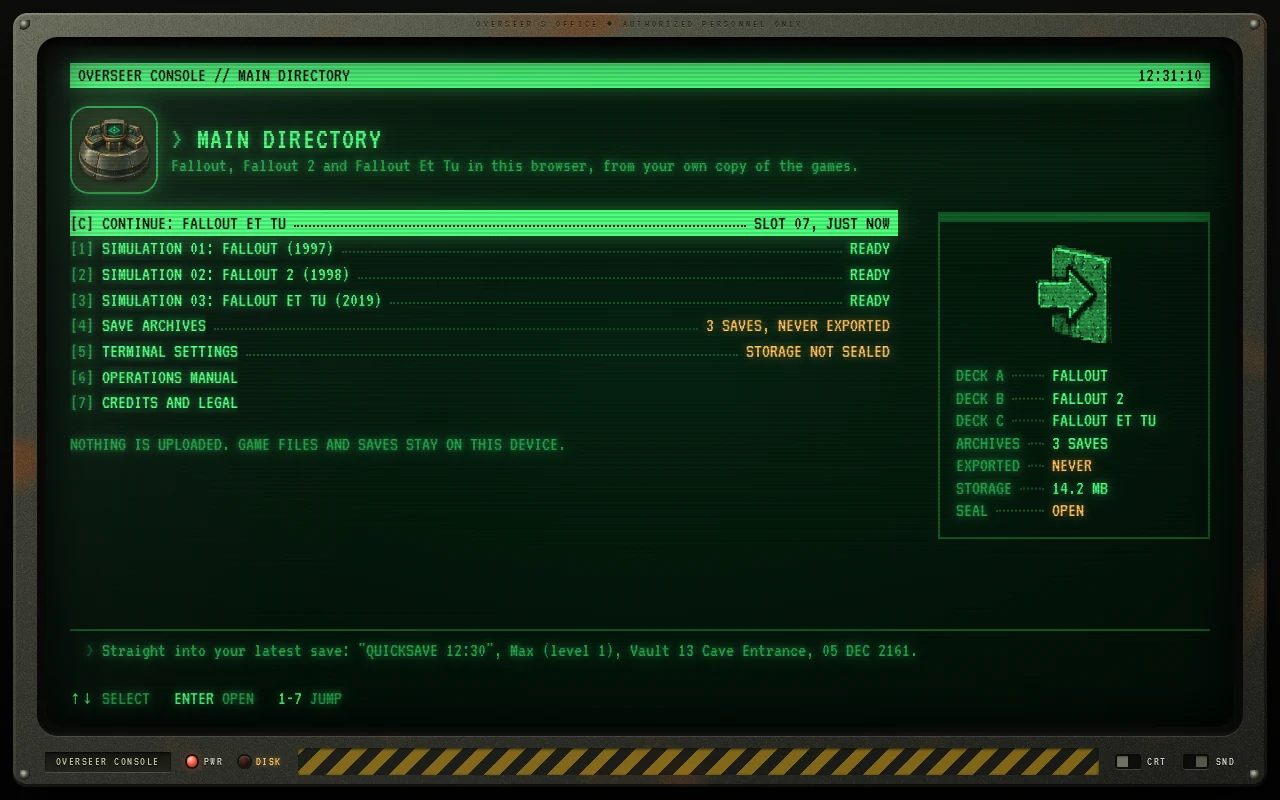
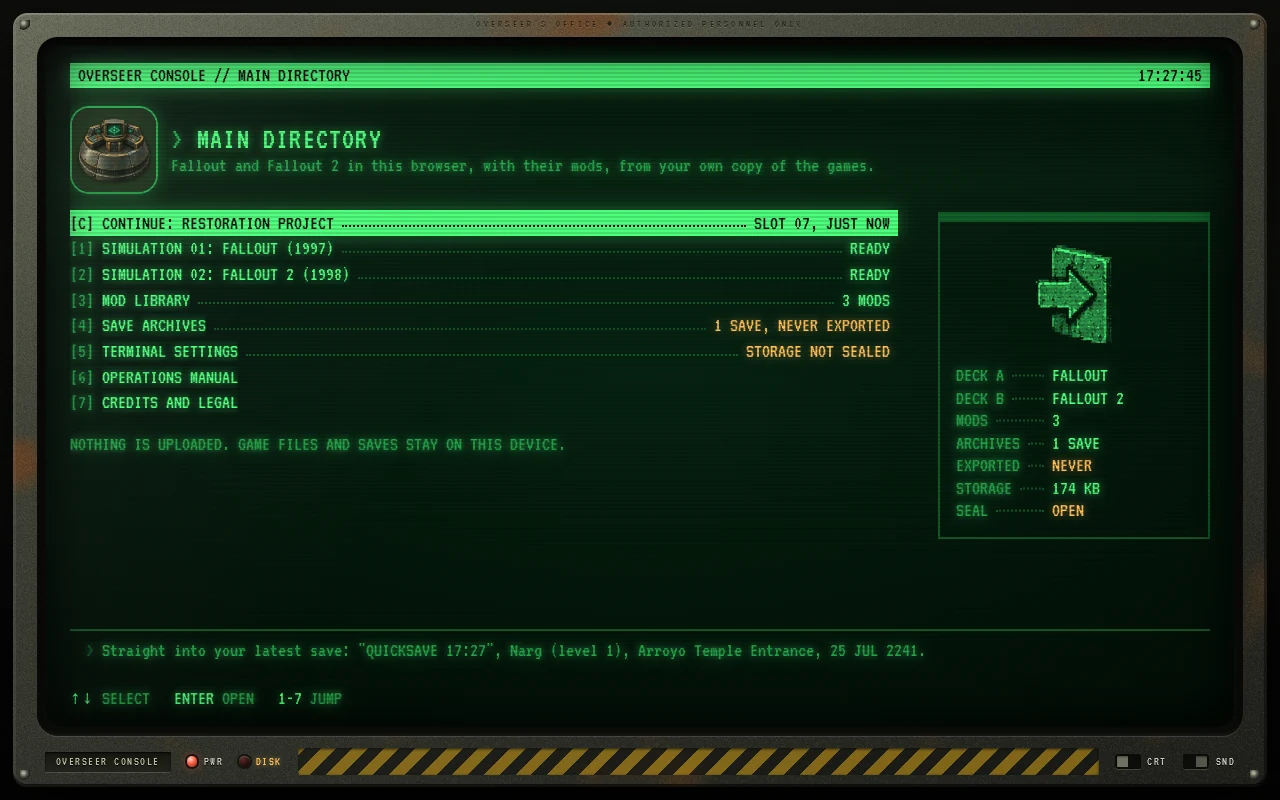
Document the Mod library
- docs/mods.md replaces the Et Tu guide: loading, playing, the known mods
- README, features, Dropbox, how-it-works and developing docs updated
- New pictures of the main directory and the Mod library

diff --git a/docs/mods.md b/docs/mods.md
@@ -1,0 +1,101 @@
+# Mods
+
+A mod is played on the game it was made for: its own files over that game's, on that game's engine, with saves of
+its own. The game itself stays as it was sold, in its deck. Mods are kept in the **Mod library**, entry 3 of the
+main directory.
+
+<p align="center"><img src="images/mods.webp" width="800" alt="The console's Mod library: Fallout Et Tu, the Restoration Project and Fallout: Sonora, each for deck B, and the mods the console knows"></p>
+
+## Loading one
+
+Load the game the mod is played on into its deck first. Then, in the Mod library, choose **Load a mod** and hand the
+console one of these, from a folder, a zip, by dropping it on the screen, or from your Dropbox:
+
+- **the mod as it is downloaded**: a zip, or the folder it unpacks to;
+- **a game folder the mod was installed in**, on a desktop, by its own installer.
+
+Of what it is handed, the console keeps only what differs from the game in the deck. A game folder a mod was
+installed in is compared with the deck's copy file by file: the game's archives and music, untouched by the mod, are
+not stored a second time, and the mod is started with the deck's copy of them. Installers, programs and libraries
+are left out; for the mods it knows, the console does what their installer would have done.
+
+With your Dropbox linked, a mod can be loaded from the **Mods** folder inside your games folder (`Apps/<app>/Mods`
+unless you changed the games folder): put each mod there as the zip it is downloaded as, or as its folder, and choose
+it from the list *From Dropbox* shows. A zip is a few large downloads where a folder is thousands of small ones.
+
+## Playing one
+
+A mod's page starts it, and holds its save archives and its picture. **In deck B** (or A) puts it in its game's
+deck: the deck plays it from then on, and its Begin and Continue start the mod. The deck's own **Mod** entry
+switches between the mods loaded for it and none, the game as it was sold. Saves are each mod's own: neither the
+game nor another mod sees them.
+
+**Components** switch the parts of a mod its load order (`mods/mods_order.txt`) names on and off: what its installer
+would offer as options, such as the Restoration Project's world map or companions' armour, or Fallout Et Tu's
+language packs. The change is kept with the mod's saves, over the file it came with, and *As the mod comes* puts
+it back.
+
+## The mods the console knows
+
+Any mod loads. These are known by name, started at the picture their makers meant, and told apart from each other
+by a file of their own or the name of their folder.
+
+| Mod | For | Hand the console | On this engine |
+| --- | --- | --- | --- |
+| [Fallout Et Tu](https://github.com/rotators/Fo1in2) | Fallout 2, built from Fallout as well | `Fallout1in2.zip`, its folder, or the Fallout 2 folder it sits in | Tested here |
+| [Restoration Project](https://github.com/BGforgeNet/Fallout2_Restoration_Project) | Fallout 2 | `rpu_v*.zip` from its releases page, not the installer; or a Fallout 2 folder it was installed in | Supported |
+| [Fallout 2 Megamod](https://www.nma-fallout.com/resources/mib88-megamod.11/) | Fallout 2 | A Fallout 2 folder it was installed in | Experimental |
+| [Fallout: Sonora](https://cambragol.github.io/Fallout-Sonora/) | Fallout 2 | `Fallout_Sonora_*.zip` from its English releases page, or its folder | Supported |
+| [Fallout: Nevada](https://github.com/BGforgeNet/fallout-nevada-english-translation) | Fallout 2 | The folder it was installed in, its English translation copied over it | Supported |
+| [Olympus 2207](https://github.com/HogLord69/olympus-2207-english) | Fallout 2 | `Olympus-2207-English.zip`, or its folder | Experimental |
+| [Fallout Fixt](https://www.moddb.com/mods/fallout-fixt) | Fallout | A Fallout folder it was installed in | Experimental |
+
+*Supported* means the makers of the Community Edition engine say it plays; *tested here* that the console's own tests
+play it from its real files; *experimental* that it starts, and parts of it are known not to work on this engine.
+
+Sonora, Nevada and Olympus are whole games of their own, with their own archives; they still need Fallout 2 in deck B,
+whose engine they play on. Olympus needs a picture at least 600 lines tall, so it is played at high resolution.
+
+> [!NOTE]
+> fo2.exe and similar launchers run the original programs of the games, with sfall, the original engine's
+> extension, as a switch. The engines the console runs have the scripting additions of sfall built in, which most
+> mods need: there is nothing to switch on. What a mod changes in a game's program itself cannot come along, and a
+> few mods reach further into the original engine than its Community Edition follows; that is what *experimental*
+> is about.
+
+## Fallout Et Tu
+
+[Fallout Et Tu](https://github.com/rotators/Fo1in2) is the first Fallout rebuilt, by fans, as a game for the engine of
+Fallout 2. The console puts it together from:
+
+- **its package**: the zip it is downloaded as, a `Fallout1in2` folder, or the Fallout 2 folder that folder sits in;
+- **Fallout 2** in deck B, whose engine and archives it plays on;
+- **Fallout** in deck A, from whose `MASTER.DAT` the files named in the package's `undat_files.txt` are copied
+  (speech, movies, map tiles). This is what the package's UNDAT tool does on a desktop. A folder that tool was
+  already run in needs no deck A.
+
+Since version 2.0 Et Tu is made for the Community Edition engine, and its package holds `fallout2-ce.exe`; the console
+warns when the one you load does not (an older package).
+
+## How it is stored
+
+A mod's files go into the console's storage beside the games', and are laid over its game's when it starts
+([`src/lib/storage/mount.ts`](../src/lib/storage/mount.ts)), in one of two ways:
+
+- **Over the game**, as a mod installed into a game folder is on a desktop. Files to unpack into a game folder (what
+  the Restoration Project's zip holds) are used with the game's own files beside them, less what the mod's installer
+  moves aside: the Restoration Project's installer puts the game's patch archive and loose data out of the way, and
+  so does the console. A complete game folder (one holding `MASTER.DAT`) is started with nothing of the deck's game
+  but the files its own copies were identical to.
+- **Nested**, as Fallout Et Tu is: in a folder of its own, with Fallout 2's archives and music in a folder below it.
+
+The engine and the console's storage are built for a few large archives, so folders of many small files are packed
+into archives in the games' own format ([`src/lib/datpack.ts`](../src/lib/datpack.ts)): each mod folder in `mods/`,
+an archive kept as a folder (Nevada's `MASTER.DAT`), and the bulk of a mod's data folder, which the engine is given as
+its second patch location, directly below the data folder itself. Music and settings, read by plain path, stay
+files. Fallout's engine reads only Fallout's own archives, so a mod of Fallout is stored as loose files.
+
+What the mods the console knows need besides is in [`src/lib/storage/mods.ts`](../src/lib/storage/mods.ts) (the
+Restoration Project's installer, Olympus's sfall 5 load order and scripts) and
+[`src/lib/storage/ettu.ts`](../src/lib/storage/ettu.ts); what the console knows of each, in
+[`src/lib/mods/catalog.ts`](../src/lib/mods/catalog.ts).

diff --git a/README.md b/README.md
@@ -7,7 +7,7 @@
 <h1 align="center">Overseer Console</h1>
 
 <p align="center">
-  <b>Fallout, Fallout 2 and Fallout Et Tu, in your browser.</b><br>
+  <b>Fallout and Fallout 2, and their mods, in your browser.</b><br>
   From your own copy of the games. Nothing to install, no server, no account.
 </p>
 
@@ -24,7 +24,7 @@
 </p>
 
 <p align="center">
-  <a href="#three-games-one-terminal">Games</a> ·
+  <a href="#two-games-and-their-mods">Games</a> ·
   <a href="#play-in-three-steps">Get started</a> ·
   <a href="#highlights">Highlights</a> ·
   <a href="docs/features.md">All features</a> ·
@@ -36,7 +36,7 @@ Overseer Console is a vault terminal that runs the open source Community Edition
 compiled to WebAssembly. Point it at the folder Steam, GOG or Epic installed your game to: it copies the data into
 your browser's private storage and plays from there, on a desktop, a tablet or a phone.
 
-## Three games, one terminal
+## Two games and their mods
 
 <table>
   <tr>
@@ -47,15 +47,19 @@ your browser's private storage and plays from there, on a desktop, a tablet or a
   <tr>
     <td align="center"><b>Fallout</b><br><sub>1997, on Fallout Community Edition</sub></td>
     <td align="center"><b>Fallout 2</b><br><sub>1998, on Fallout 2 Community Edition</sub></td>
-    <td align="center"><b>Fallout Et Tu</b><br><sub>2019, Fallout rebuilt on the Fallout 2 engine</sub></td>
+    <td align="center"><b>Fallout Et Tu</b><br><sub>A mod: Fallout rebuilt on the Fallout 2 engine</sub></td>
   </tr>
 </table>
+
+Mods are played on the game they were made for, with saves of their own, from the console's Mod library. Fallout
+Et Tu, the Restoration Project, the Megamod, Sonora, Nevada, Olympus 2207 and Fallout Fixt are known by name; any
+other loads from its zip or its folder. See [Mods](docs/mods.md).
 
 ## Play in three steps
 
 1. **[Open the console](https://daniel-vaz.github.io/overseer-console/).** Any modern browser.
-2. **Load a holodisk.** Pick your game's folder, drop it on the console, or hand it a zip of it. For Fallout Et Tu,
-   hand it the zip the conversion is downloaded as.
+2. **Load a holodisk.** Pick your game's folder, drop it on the console, or hand it a zip of it. A mod goes into the
+   Mod library, from the zip it is downloaded as or a game folder it was installed in.
 3. **Press `1`.** Next time, `C` takes you straight back into your latest save.
 
 You need to own the games ([GOG](https://www.gog.com/game/fallout), [Steam](https://store.steampowered.com/app/38400),
@@ -76,30 +80,39 @@ Epic). No game data is hosted or distributed here, and nothing is uploaded.
   </tr>
   <tr>
     <td>
+      <h3>Bring your own mods</h3>
+      Hand the console a mod as it is downloaded, or a game folder it was installed in. It keeps only what differs
+      from your game, does what the mod's installer would do, and plays it on that game's engine with saves of its
+      own. Put it in the game's deck, switch its parts on and off, or go back to the game as it was sold with one key.
+    </td>
+    <td width="55%"><img src="docs/images/mods.webp" alt="The Mod library: Fallout Et Tu, the Restoration Project and Fallout: Sonora, each for deck B, and the mods the console knows"></td>
+  </tr>
+  <tr>
+    <td width="55%"><img src="docs/images/editor-special.webp" alt="The save editor's S.P.E.C.I.A.L. page: each stat with its rating, and the Vault Boy card for Strength"></td>
+    <td>
       <h3>A save editor that knows the rules</h3>
       Name, level, S.P.E.C.I.A.L., skills, traits, perks, inventory, karma, reputation, companions, quests, the
       world map and the date. Drawn with the game's own pictures, from your copy, and checked against the game's
       own rules. Every change can be undone.
     </td>
-    <td width="55%"><img src="docs/images/editor-special.webp" alt="The save editor's S.P.E.C.I.A.L. page: each stat with its rating, and the Vault Boy card for Strength"></td>
   </tr>
   <tr>
-    <td width="55%"><img src="docs/images/touch.webp" alt="Fallout 2 on a phone held sideways, with the touch deck's buttons on both sides of the picture"></td>
     <td>
       <h3>Made for touch screens too</h3>
       Tap, drag, hold and two-finger gestures stand in for the mouse. One-tap buttons open the inventory, map,
       character screen and Pip-Boy, end a turn, quick save and fast forward. A keyboard appears when the game asks
       for text.
     </td>
+    <td width="55%"><img src="docs/images/touch.webp" alt="Fallout 2 on a phone held sideways, with the touch deck's buttons on both sides of the picture"></td>
   </tr>
   <tr>
+    <td width="55%"><img src="docs/images/picture-high.webp" alt="Fallout 2 at high resolution: much more of Arroyo in view, across a wide window"></td>
     <td>
-      <h3>Your picture, deck by deck</h3>
+      <h3>Your picture, game by game</h3>
       The original 640 x 480, widened to your window, or high resolution. Fast forward with <code>F8</code> for the
       long walks and the turns of a dozen rats. Fallout 2's engine improvements can be switched on, or off for the
       original game.
     </td>
-    <td width="55%"><img src="docs/images/picture-high.webp" alt="Fallout 2 at high resolution: much more of Arroyo in view, across a wide window"></td>
   </tr>
 </table>
 
@@ -107,12 +120,12 @@ Epic). No game data is hosted or distributed here, and nothing is uploaded.
   <tr>
     <td width="33%"><img src="docs/images/editor-pipboy.webp" alt="The save editor's Pip-Boy page: the date and Arroyo's and the Den's quests"></td>
     <td width="33%"><img src="docs/images/editor-items.webp" alt="The save editor's item picker: power armour and power fists with their pictures, and the Mega Power Fist's stats"></td>
-    <td width="33%"><img src="docs/images/console.webp" alt="The console's main directory, with all three decks ready and a save to continue from"></td>
+    <td width="33%"><img src="docs/images/console.webp" alt="The console's main directory: both decks ready, the Mod library, and a save to continue from"></td>
   </tr>
   <tr>
     <td align="center"><sub>Quests, holodisks and the world map</sub></td>
     <td align="center"><sub>Every item the game has, with its picture</sub></td>
-    <td align="center"><sub>Three decks, one key to continue</sub></td>
+    <td align="center"><sub>Two decks, their mods, one key to continue</sub></td>
   </tr>
 </table>
 
@@ -138,7 +151,7 @@ door is shut exactly when the console's storage is sealed, and a console left al
 | Guide | What it covers |
 | --- | --- |
 | [Features](docs/features.md) | Everything the console does |
-| [Fallout Et Tu](docs/fallout-et-tu.md) | What it needs and how the console puts it together |
+| [Mods](docs/mods.md) | Loading a mod, playing it on its game, and the mods the console knows |
 | [Dropbox link](docs/dropbox.md) | Carry saves and games between devices through your own Dropbox |
 | [How it works](docs/how-it-works.md) | The engines, storage, save reader and editor, and the vault |
 | [Developing](docs/developing.md) | Building the engines and the site, tests, deploying |

diff --git a/docs/features.md b/docs/features.md
@@ -4,6 +4,7 @@ Everything the console does, in one place. For the short tour see the [README](.
 own **Operations manual** (entry 6 of the main directory) explains each of these from inside it.
 
 - [The games](#the-games)
+- [Mods](#mods)
 - [Playing](#playing)
 - [Touch screens](#touch-screens)
 - [Saves](#saves)
@@ -14,17 +15,27 @@ own **Operations manual** (entry 6 of the main directory) explains each of these
 
 ## The games
 
-<p align="center"><img src="images/deck-et-tu.webp" width="800" alt="Deck C of the console: Fallout Et Tu, put together and ready"></p>
-
 - **Your own copy of the games.** No game data is hosted or distributed here. You need to own them
   ([GOG](https://www.gog.com/game/fallout), [Steam](https://store.steampowered.com/app/38400), Epic).
 - **Fallout and Fallout 2**, played by the open source Community Edition engines, compiled to WebAssembly.
-- **Fallout Et Tu, put together for you.** Hand the console the zip the conversion is downloaded as. It takes
-  the files Et Tu needs out of your Fallout and plays it on your Fallout 2: no unpacking, no extraction tool.
-  See [Fallout Et Tu](fallout-et-tu.md).
 - **Games from a folder, a zip, or Dropbox.** Pick the folder a store installed the game to, or drop it on the
   console. A game folder can also be loaded as one zip of it, which is how a whole game, music included, gets onto
   a device that cannot pick folders; or from a folder in your own Dropbox (see [Dropbox link](dropbox.md)).
+
+## Mods
+
+<p align="center"><img src="images/mods.webp" width="800" alt="The Mod library: Fallout Et Tu, the Restoration Project and Fallout: Sonora, each for deck B"></p>
+
+- **A Mod library.** Mods are played on the game they were made for, with saves of their own; the game stays as it
+  was sold, one key away on its deck. See [Mods](mods.md).
+- **Bring your own.** Hand the console a mod as it is downloaded (a zip or its folder) or a game folder it was
+  installed in. It keeps only what differs from your game in the deck, and does what a mod's installer would do.
+- **Seven it knows by name.** Fallout Et Tu (put together from your Fallout and played on your Fallout 2, no
+  extraction tool), the Restoration Project, the Megamod, Sonora, Nevada and Olympus 2207 for Fallout 2, Fallout Fixt
+  for Fallout: where to get each, what to hand over, and how well it plays on the engine.
+- **A mod in its deck.** Put a mod in its game's deck and the deck plays it; switch back with one key.
+- **Components.** The parts a mod's load order switches on, as its installer would offer them, switched on and off
+  any time.
 
 ## Playing
 
@@ -43,13 +54,13 @@ own **Operations manual** (entry 6 of the main directory) explains each of these
 
 - **Continue.** One key takes you from the console straight into your latest save.
 - **A picture for each game.** The original 640 x 480, widened to the shape of the window, or high resolution:
-  chosen deck by deck. Fallout Et Tu starts at the high resolution it was laid out for, the two originals at the
-  picture they were drawn for.
+  chosen game by game and mod by mod. The two originals start at the picture they were drawn for, a mod at the one
+  its makers meant: Fallout Et Tu at the high resolution it was laid out for.
 - **Fast forward.** F8 runs a game several times as fast, for the long walk across a map and the turns of a
   dozen rats, and back again.
 - **Fallout 2 with what its engine adds, or without.** One setting switches on items that light up on a key,
-  a wider inventory, companions' own inventories, doors that open as you walk into them and more; switched
-  off, the game plays as the original did.
+  a wider inventory, companions' own inventories, doors that open as you walk into them and more, for Fallout 2
+  and its mods; switched off, the game plays as the original did.
 - **A console menu over the game.** F9 freezes the game and its clock and opens the console's own menu:
   resume, fullscreen, back to the console, and the keys. Switching to another tab freezes it too.
 - **Fullscreen.** F11, or from the F9 menu.

diff --git a/docs/how-it-works.md b/docs/how-it-works.md
@@ -12,7 +12,7 @@ into the browser's private storage on your device and plays from there.
 | Engine glue | [`engines/lib/overseer.js`](../engines/lib/overseer.js) | Linked into both engines. Gives them a clock that can pause and run fast, hands the thread back to the browser during long loops, reads game archives from disk on demand, reports file changes in batches, and passes on the page's requests for an autosave. |
 | Game data store | [`src/lib/storage/`](../src/lib/storage/) | Imported game files live in the origin private file system (OPFS). Files the engines write (saves, settings) live in IndexedDB and are committed atomically per save. Before a save slot is overwritten or erased its contents go into a history (`history.ts`), with unchanged files stored once. |
 | Zip and archive tools | [`src/lib/zip.ts`](../src/lib/zip.ts), [`datpack.ts`](../src/lib/datpack.ts), [`blobs.ts`](../src/lib/blobs.ts) | Read files out of a zip where it lies, without unpacking it, and describe a game archive (`.dat`) made of loose files without copying them. To the importer both are files like any other. |
-| Fallout Et Tu | [`src/lib/storage/ettu.ts`](../src/lib/storage/ettu.ts) | Finds the conversion in a selection and plans how to store it: see [Fallout Et Tu](fallout-et-tu.md). |
+| Mods | [`src/lib/mods/`](../src/lib/mods/), [`src/lib/storage/mods.ts`](../src/lib/storage/mods.ts), [`mount.ts`](../src/lib/storage/mount.ts), [`ettu.ts`](../src/lib/storage/ettu.ts) | A mod is a game of its own to the console (its id, files, saves and picture, in [`games.ts`](../src/lib/games.ts)), played over the game it was made for. Finds a mod in a selection, keeps what differs from the game in the deck, does what its installer does, and works out the folder it starts in, which the player and the save editor both read: see [Mods](mods.md). |
 | Save reader | [`src/lib/savefile.ts`](../src/lib/savefile.ts), [`dat.ts`](../src/lib/dat.ts), [`gamefacts.ts`](../src/lib/gamefacts.ts) | Reads a save's header, picture and character sheet, and fetches the palette and the names of perks, traits, skills and places out of the player's own `MASTER.DAT` (both archive formats). |
 | Save editor | [`src/lib/modify/`](../src/lib/modify/), [`src/launcher/modify/`](../src/launcher/modify/) | Maps a SAVE.DAT to the byte, to its end (`tail.ts`: world map, party, timed events), using the game's own item prototypes to know how each item is stored, and the map the party travels in (`mapfile.ts`, `party.ts`). Applies the engines' rules (`tables.ts` is generated from their sources; Fallout Et Tu's `Perks.ini`, `Skills.ini` and table of experience are read as its engine reads them) and names the world from the game's files (`world.ts`: vault13.gam, quests, holodisks, karma, towns). Writes only the changed fields, the inventory and the queue, and reads the result back before it is stored. |
 | Dropbox link | [`src/lib/dropbox/`](../src/lib/dropbox/) | Optional. Talks to the player's own Dropbox straight from the browser: linking, saves as one zip per slot, and game files read piece by piece through the same importer as a folder on disk. See [Dropbox link](dropbox.md). |

diff --git a/docs/developing.md b/docs/developing.md
@@ -31,6 +31,12 @@ With both of those and `ETTU="/path/to/Fallout1in2.zip"` (or its folder) the sam
 together from the real things and starts it. `tests/e2e/ettu.spec.ts` does as much as made-up data allows,
 up to the engine opening the archives the console made.
 
+The other mods the console knows are played from their real files when told where they are, with `FO2_DIR` (or
+`FO1_DIR` for Fixt) beside them: `RPU="/path/to/rpu_v2.4.34.zip"`, `SONORA="/path/to/Fallout_Sonora_1.16.4E.zip"`,
+`OLYMPUS="/path/to/Olympus-2207-English.zip"`, and `NEVADA`, `MEGAMOD`, `FIXT` as the folder each was installed in
+(or a zip of it). `tests/e2e/mods.spec.ts` and `tests/unit/mods.test.ts` cover them on made-up files laid out as the
+real ones are (`tests/mods.ts`).
+
 `tests/e2e/touch.spec.ts` plays them again with fingers only, on a phone-sized screen.
 
 `tests/e2e/modify-games.spec.ts` changes a quick save with the save editor, loads it in the game, saves again from

diff --git a/docs/dropbox.md b/docs/dropbox.md
@@ -28,7 +28,10 @@ not a secret.
   into a desktop install.
 - **Games.** Put the folder a game is installed in anywhere inside `Apps/<app>/`, using Dropbox's own app
   or website, and choose *Load holodisk from Dropbox* on the game's deck. The console only reads there.
-  Fallout Et Tu is best kept there as the zip it is downloaded as: a folder is thousands of small downloads.
   This is the way to get a game, music included, onto a phone.
+- **Mods.** Put each mod in the `Mods` folder inside the games folder (`Apps/<app>/Mods` unless you changed the
+  games folder), as the zip it is downloaded as or as its folder, and choose *From Dropbox* under *Load a mod* in
+  the Mod library: it lists what is there. A zip is best: a folder is thousands of small downloads. A game is never
+  looked for in the `Mods` folder.
 
 Both folders can be changed on the Dropbox link screen.
